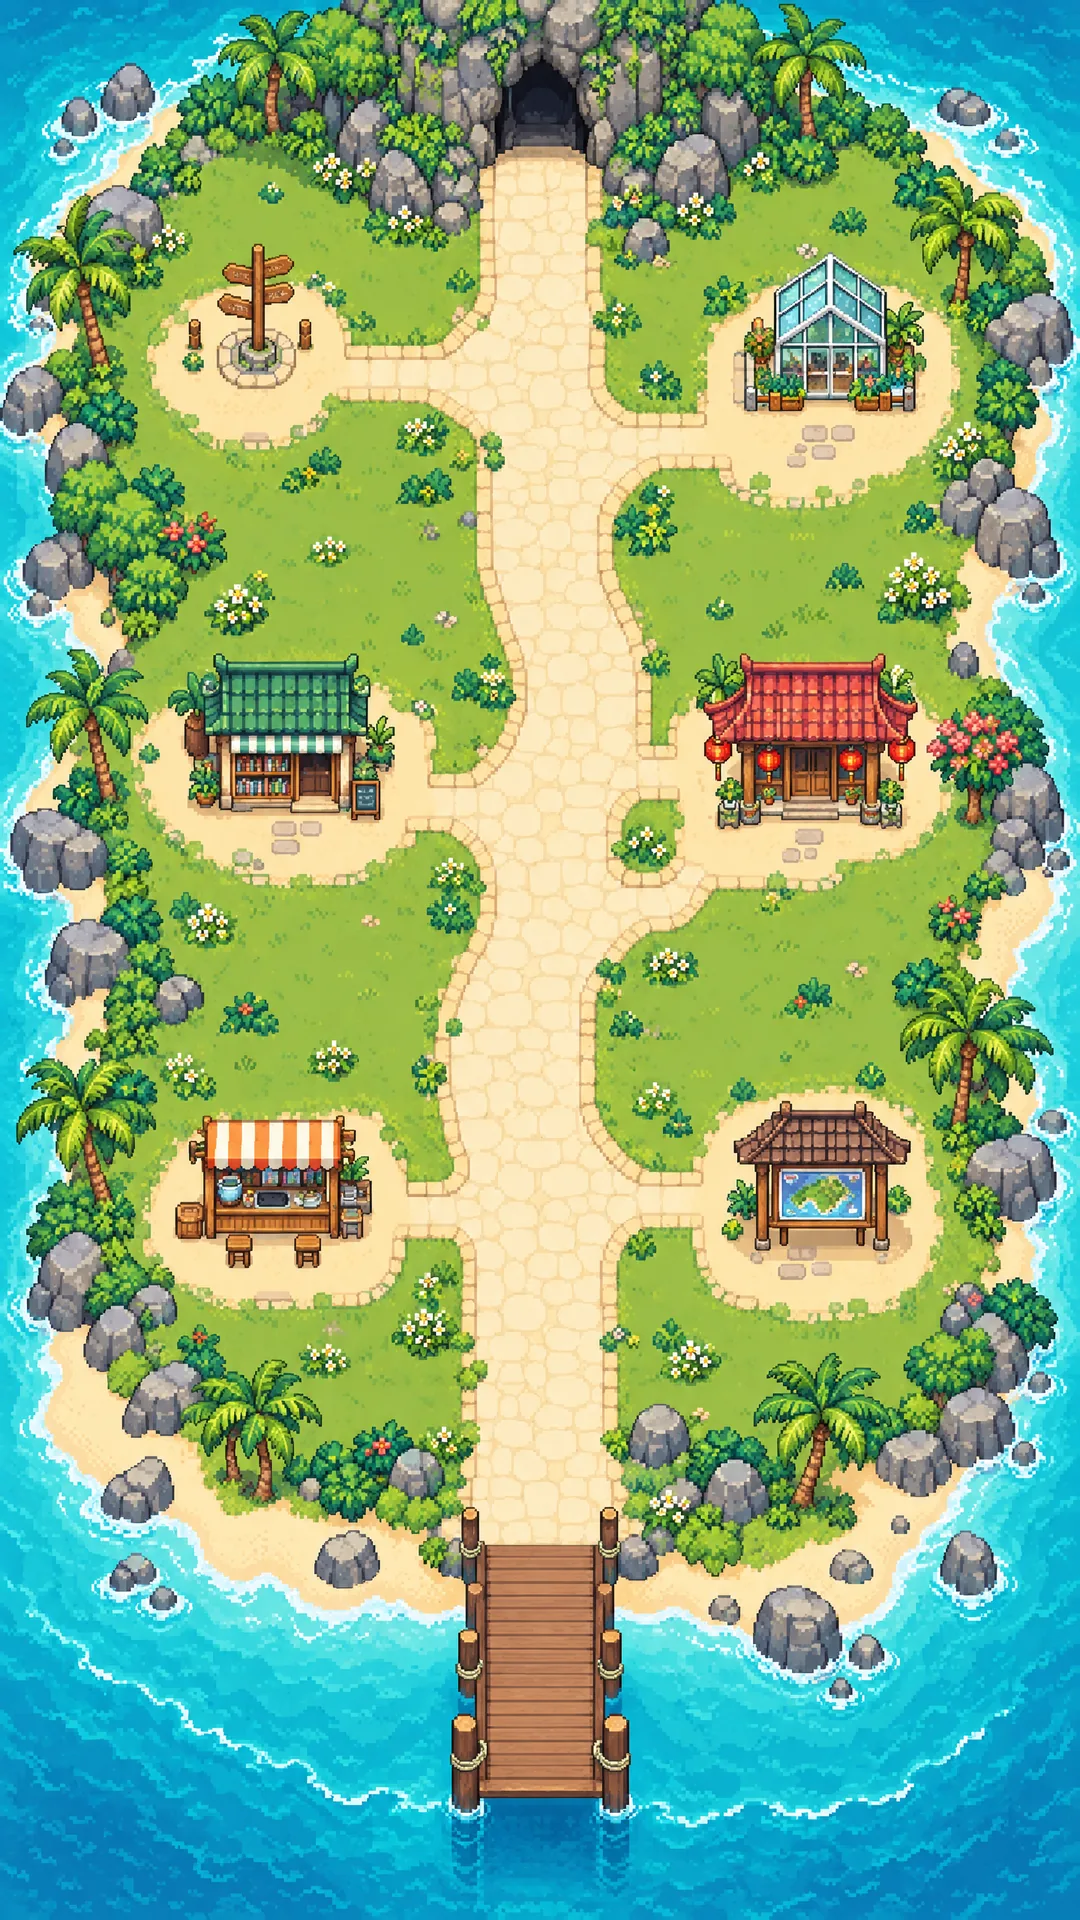
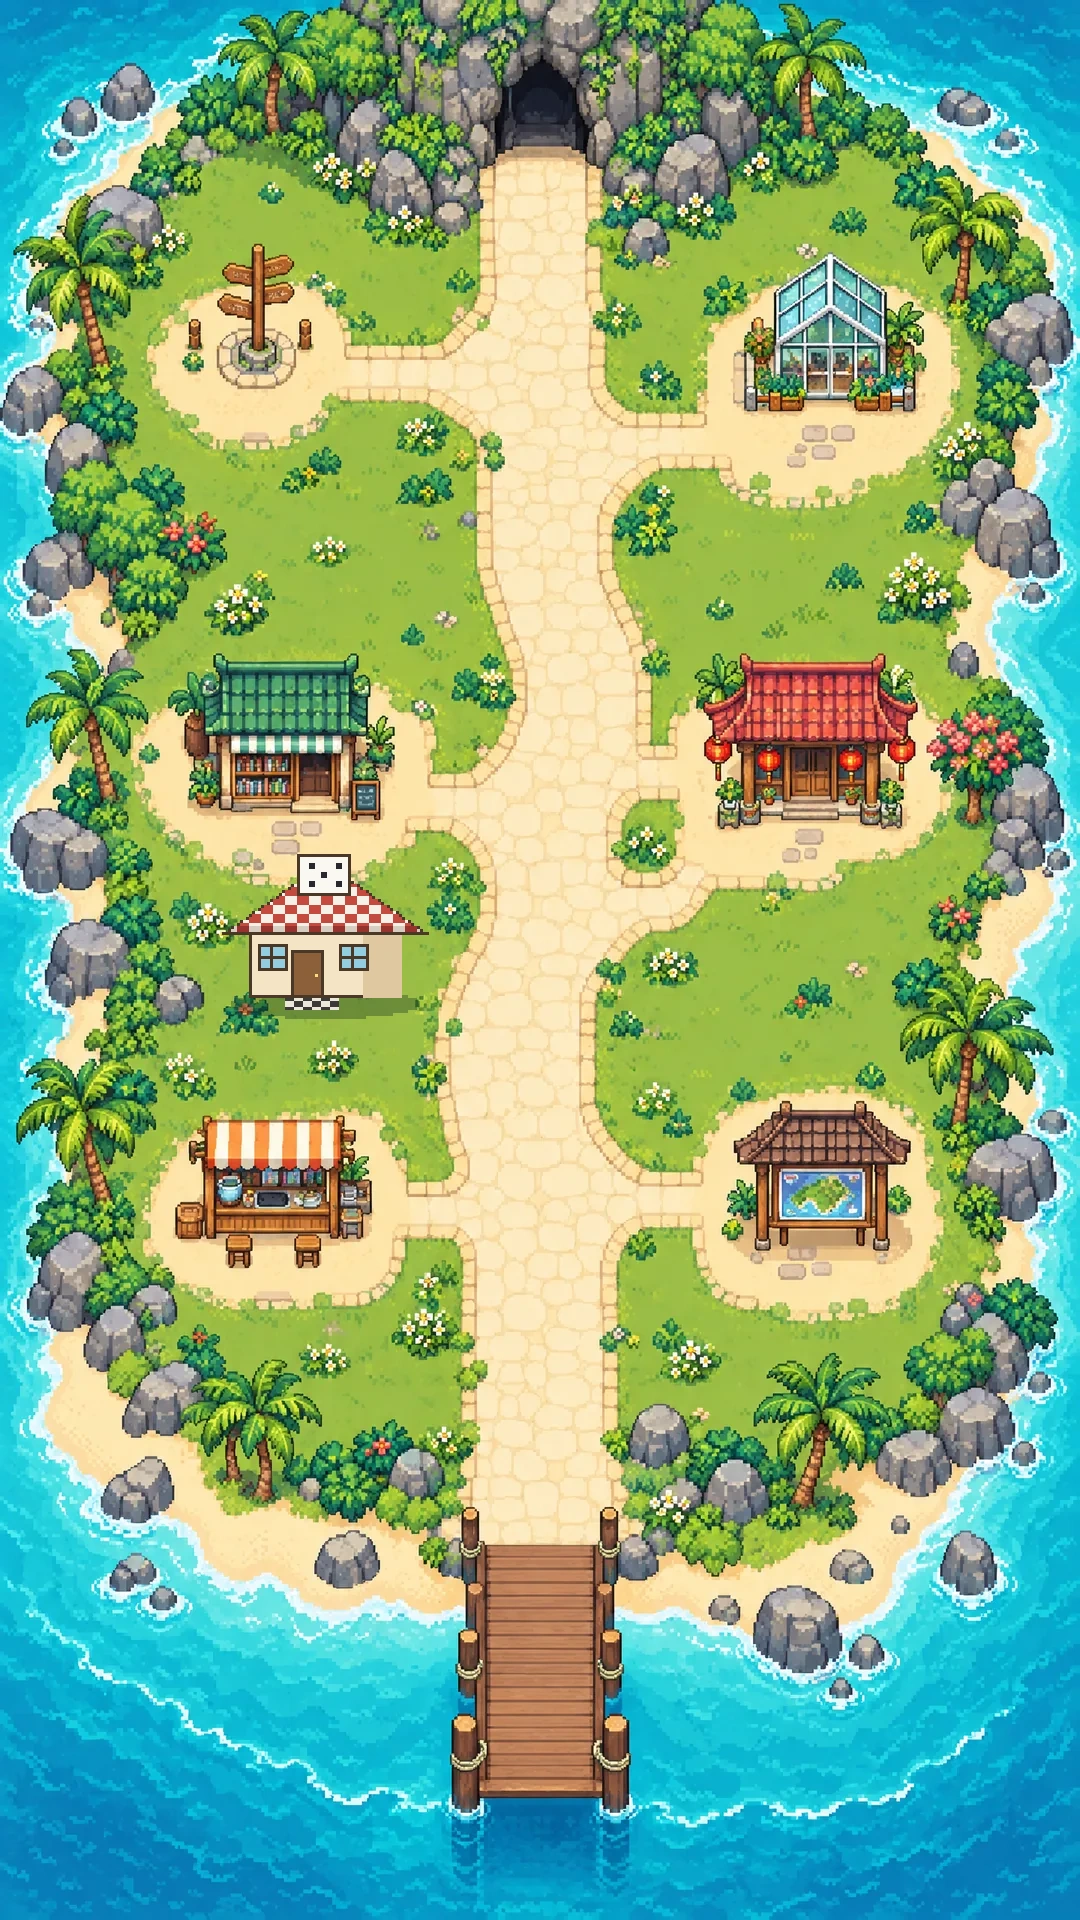
T780 适配吃货计划最新入口：游戏屋 pin + 弹层菜单镜像 + 死数据清理
- 地图新增「吃货游戏」建筑（红白棋盘格屋顶+大色子，PIL 程序化像素贴图）
  PINS/STOPS 用 PATH 末尾追加节点（索引 28），不打乱既有坐标
- sections 加 games 栏目：CTA 开局吃货大富翁 → game.eatplan.online，
  代表内容 3 款游戏（大富翁/吃货护照/帮衬村），WALK_ORDER 插入
- i 弹层分组镜像主站菜单：吃货游戏(3) / 逛主站 / 玩法社区(兑换商城/论坛/公告/反馈)
  / 关于(我们/联络/隐私/我的)；294→280 篇对齐主站首页；privacy-policy→privacy/
- 清理死数据：删 6 处 manus-storage image 字段与 MAP_IMAGE export（无引用）
  BRAND_BADGE 本地化为 public/brand-badge.png（主站 PWA 图标）
- SectionDrawer 支持 section.ctaLabel 自定义按钮文案
- Playwright 测试 epweb-games PASS：7 pin/走位抽屉/链接/弹层/深链/6 栏目回归，0 错误

Changed region(s): [[0.2139, 0.4375, 0.3972, 0.5312]]

diff --git a/src/data/sections.ts b/src/data/sections.ts
@@ -14,9 +14,10 @@ export type Section = {
   /** 地图主视觉上的百分比定位（x 相对宽度，y 相对高度） */
   pin: { x: number; y: number }
   intro: string
-  image: string
   /** eatplan.online 上对应栏目的真实地址 */
   externalUrl: string
+  /** 抽屉主按钮文案（默认「在主站打开本栏目 ▶」） */
+  ctaLabel?: string
   items: SectionItem[]
 }
 
@@ -31,8 +32,7 @@ const rawSections: Section[] = [
     coord: { lat: 3.139, lng: 101.6869 },
     pin: { x: 61, y: 57 },
     intro:
-      '294 篇百科文章，用中文系统整理马来西亚的菜式、节庆、食材与地点资料。每一篇都尽量回到公开来源，把「是什么、从哪里来、怎么吃」讲清楚。',
-    image: '/manus-storage/async-images/gY2B3w0KUuR5TSPcRnshim/image-2.webp',
+      '280 篇百科文章，用中文系统整理马来西亚的菜式、节庆、食材与地点资料。每一篇都尽量回到公开来源，把「是什么、从哪里来、怎么吃」讲清楚。',
     externalUrl: `${SITE}/magazine/`,
     items: [
       {
@@ -76,7 +76,6 @@ const rawSections: Section[] = [
     pin: { x: 16, y: 32 },
     intro:
       '从椰浆饭到仁当，每一条词条都是一张小名片：它是什么、在哪里最常见、怎么点、配什么吃。逛词条就像在摊位前看菜单。',
-    image: '/manus-storage/async-images/gY2B3w0KUuR5TSPcRnshim/image-3.webp',
     externalUrl: `${SITE}/dishes/`,
     items: [
       {
@@ -120,7 +119,6 @@ const rawSections: Section[] = [
     pin: { x: 54, y: 25 },
     intro:
       '农历新年、开斋节、屠妖节、丰收节……马来西亚的公共假期背后，都有一套固定的食物与仪式。这里把日期、习俗与「怎么吃」放在一起。',
-    image: '/manus-storage/async-images/gY2B3w0KUuR5TSPcRnshim/image-4.webp',
     externalUrl: `${SITE}/festival/`,
     items: [
       {
@@ -164,7 +162,6 @@ const rawSections: Section[] = [
     pin: { x: 75, y: 25 },
     intro:
       '食物与生态、族群与手艺之间的隐形网络：从洞穴生态到发酵虾酱，从锡克社群的共享厨房到伊班人的竹筒烹调。',
-    image: '/manus-storage/async-images/gY2B3w0KUuR5TSPcRnshim/image-5.webp',
     externalUrl: `${SITE}/bioculture/`,
     items: [
       {
@@ -208,7 +205,6 @@ const rawSections: Section[] = [
     pin: { x: 38, y: 17 },
     intro:
       '十三个州各有一套自己的版本：槟城的亚参叻沙、吉兰丹的蓝花饭、霹雳的仁当、砂拉越的叻沙。先选地方，再选吃法。',
-    image: '/manus-storage/async-images/sS0nzppq1IBuOJbY0oiooB/image-1.webp',
     externalUrl: `${SITE}/area/`,
     items: [
       {
@@ -252,7 +248,6 @@ const rawSections: Section[] = [
     pin: { x: 44, y: 46 },
     intro:
       '把文章落到真实坐标上：洞穴、小镇、市集与庙宇。每个地点都附导航坐标，走到哪里，就吃到哪里。',
-    image: '/manus-storage/async-images/sS0nzppq1IBuOJbY0oiooB/image-2.webp',
     externalUrl: `${SITE}/places/`,
     items: [
       {
@@ -287,10 +282,38 @@ const rawSections: Section[] = [
       },
     ],
   },
+  {
+    slug: 'games',
+    navLabel: '吃货游戏',
+    title: '吃货游戏',
+    enLabel: 'GAME ROOM',
+    coord: { lat: 3.139, lng: 101.6869 },
+    pin: { x: 30, y: 47 },
+    intro:
+      '把马来西亚玩进地图里：拿着吃货护照去打卡盖章，回帮衬村经营你的小吃摊，或者坐下掷骰子环游半岛——三个小游戏，各玩各的，随时开局。',
+    externalUrl: 'https://game.eatplan.online/',
+    ctaLabel: '开局吃货大富翁 ▶',
+    items: [
+      {
+        title: '吃货大富翁 · 环马',
+        desc: '28 格环形棋盘走遍马来西亚：买地收租，还有股票、保险与财务报表的现金流玩法，单机或 6 人联机。',
+        url: 'https://game.eatplan.online/',
+      },
+      {
+        title: '吃货护照 H5',
+        desc: '边吃边盖章：走遍景点与摊位，把行程收进自己的护照。',
+        url: `${SITE}/passport/`,
+      },
+      {
+        title: '帮衬村',
+        desc: '经营你的小吃摊，看看一天能赚多少、能撑多久。',
+        url: `${SITE}/bangchen/`,
+      },
+    ],
+  },
 ]
 
-export const MAP_IMAGE = '/manus-storage/async-images/gY2B3w0KUuR5TSPcRnshim/image-1.webp'
-export const BRAND_BADGE = '/manus-storage/async-images/sS0nzppq1IBuOJbY0oiooB/image-3.webp'
+export const BRAND_BADGE = '/brand-badge.png'
 
 export function formatCoord(c: { lat: number; lng: number }): string {
   const latDir = c.lat >= 0 ? 'N' : 'S'
@@ -302,7 +325,7 @@ export function findSection(slug: string | undefined): Section | undefined {
   return sections.find((s) => s.slug === slug)
 }
 /** 行走顺序：码头出发自下而上，抽屉「下一站」也按此串联 */
-const WALK_ORDER = ['dishes', 'places', 'festival', 'magazine', 'bioculture', 'area']
+const WALK_ORDER = ['dishes', 'places', 'festival', 'magazine', 'games', 'bioculture', 'area']
 
 export const sections: Section[] = [...rawSections].sort(
   (a, b) => WALK_ORDER.indexOf(a.slug) - WALK_ORDER.indexOf(b.slug),

diff --git a/src/components/Layout.tsx b/src/components/Layout.tsx
@@ -62,7 +62,7 @@ export default function Layout() {
               </div>
             </div>
             <p className="info-desc">
-              吃货计划目前收录 294 篇百科文章，覆盖菜式、岁时节庆、食材生态与实地地点，全部附公开来源。这张地图是它的门面，正文仍在主站。
+              吃货计划目前收录 280 篇百科文章，覆盖菜式、岁时节庆、食材生态与实地地点，全部附公开来源。这张地图是它的门面，正文仍在主站。
             </p>
             <div className="footer-cols">
               <div className="footer-col">
@@ -80,7 +80,19 @@ export default function Layout() {
                 ))}
               </div>
               <div className="footer-col">
-                <h3>去主站</h3>
+                <h3>吃货游戏</h3>
+                <a href="https://eatplan.online/passport/" target="_blank" rel="noopener noreferrer">
+                  吃货护照
+                </a>
+                <a href="https://eatplan.online/bangchen/" target="_blank" rel="noopener noreferrer">
+                  帮衬村
+                </a>
+                <a href="https://game.eatplan.online/" target="_blank" rel="noopener noreferrer">
+                  吃货大富翁
+                </a>
+              </div>
+              <div className="footer-col">
+                <h3>逛主站</h3>
                 <a href="https://eatplan.online/" target="_blank" rel="noopener noreferrer">
                   发现
                 </a>
@@ -95,8 +107,29 @@ export default function Layout() {
                 </a>
               </div>
               <div className="footer-col">
+                <h3>玩法社区</h3>
+                <a href="https://eatplan.online/points-shop/" target="_blank" rel="noopener noreferrer">
+                  兑换商城
+                </a>
+                <a href="https://eatplan.online/luntan/" target="_blank" rel="noopener noreferrer">
+                  吃货论坛
+                </a>
+                <a href="https://eatplan.online/gonggao/" target="_blank" rel="noopener noreferrer">
+                  吃货公告
+                </a>
+                <a href="https://eatplan.online/support/?ep_classic=1&new=1&category=feedback" target="_blank" rel="noopener noreferrer">
+                  我要反馈
+                </a>
+              </div>
+              <div className="footer-col">
                 <h3>关于</h3>
-                <a href="https://eatplan.online/privacy-policy/" target="_blank" rel="noopener noreferrer">
+                <a href="https://eatplan.online/about/" target="_blank" rel="noopener noreferrer">
+                  关于我们
+                </a>
+                <a href="https://eatplan.online/contact/" target="_blank" rel="noopener noreferrer">
+                  联络我们
+                </a>
+                <a href="https://eatplan.online/privacy/" target="_blank" rel="noopener noreferrer">
                   隐私政策
                 </a>
                 <a href="https://eatplan.online/me/" target="_blank" rel="noopener noreferrer">

diff --git a/src/map/mapLayout.ts b/src/map/mapLayout.ts
@@ -38,6 +38,7 @@ export const PATH: Pct[] = [
   { x: 41.4, y: 17.3 },
   { x: 41.9, y: 17.0 },
   { x: 50.3, y: 8.9 }, // 27 溶洞尽头
+  { x: 36.5, y: 47.5 }, // 28 · 吃货游戏（游戏屋门前，T780 追加不改既有索引）
 ]
 
 export const STOPS: Record<string, number> = {
@@ -47,6 +48,7 @@ export const STOPS: Record<string, number> = {
   magazine: 16,
   bioculture: 19,
   area: 22,
+  games: 28,
 }
 
 export const PINS: Record<string, Pct> = {
@@ -56,4 +58,5 @@ export const PINS: Record<string, Pct> = {
   festival: { x: 70, y: 38 },
   area: { x: 27, y: 15 },
   bioculture: { x: 74, y: 16 },
+  games: { x: 30, y: 47 },
 }

diff --git a/src/components/SectionDrawer.tsx b/src/components/SectionDrawer.tsx
@@ -56,7 +56,7 @@ export default function SectionDrawer({ section, unknown, onClose, onGoto }: Pro
                 target="_blank"
                 rel="noopener noreferrer"
               >
-                在主站打开本栏目 ▶
+                {section.ctaLabel || '在主站打开本栏目 ▶'}
               </a>
 
               <p className="section-kicker drawer-sub">SELECTED ENTRIES</p>
